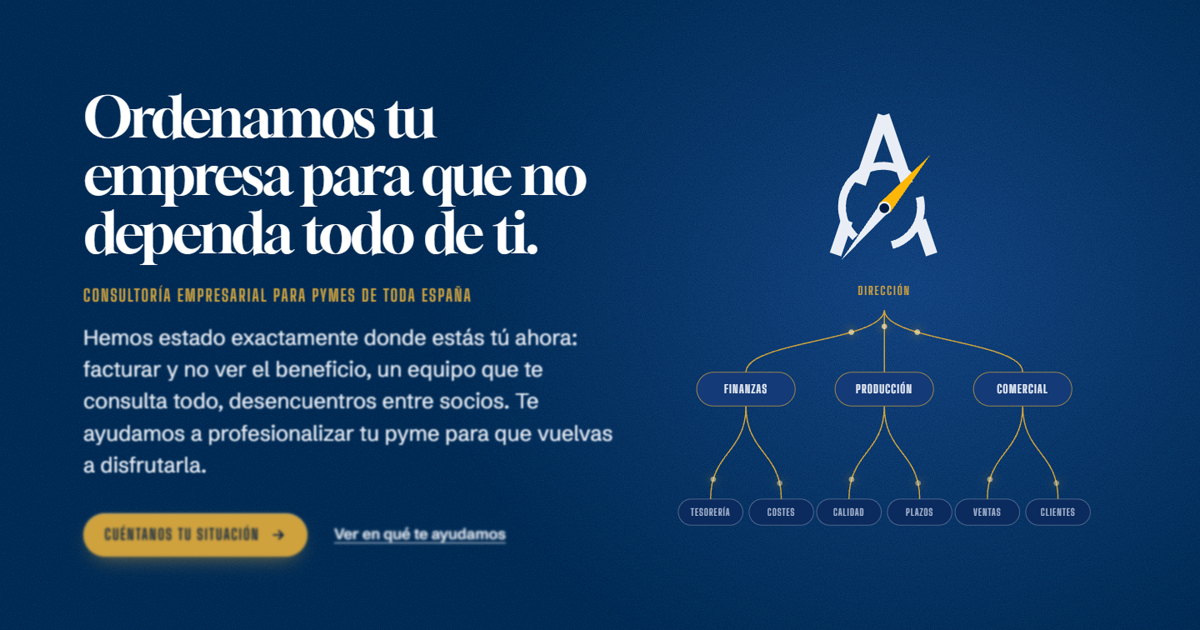
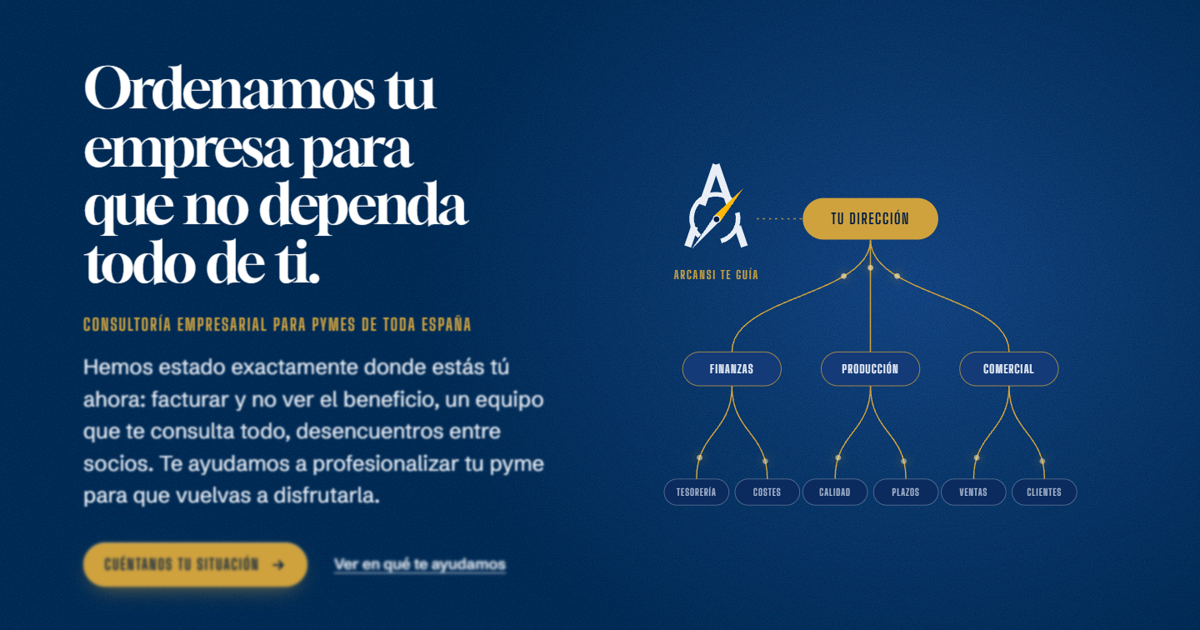
Organigrama: la empresa mantiene la direccion; Arcansi aparece al lado como guia

diff --git a/src/scripts/org.ts b/src/scripts/org.ts
@@ -17,7 +17,7 @@ const heads = [
 ];
 
 function buildNodes(): N[] {
-  const out: N[] = [{ id: "hub", label: "Tú", parent: null, start: [320, 300], end: [320, 95], kind: "hub" }];
+  const out: N[] = [{ id: "hub", label: "Tú", parent: null, start: [320, 300], end: [320, 150], kind: "hub" }];
   const all: Omit<N, "start">[] = [];
   heads.forEach((h) => {
     all.push({ id: h.id, label: h.label, problem: h.problem, parent: "hub", end: [h.x, 345], kind: "head" });
@@ -59,7 +59,7 @@ export function initOrg(svg: SVGSVGElement, section: HTMLElement, opts: { reduce
 
   const els = nodes.map((n) => {
     const g = document.createElementNS(NS, "g"); g.setAttribute("class", `org-node org-node--${n.kind}`);
-    const w = n.kind === "hub" ? 150 : n.kind === "head" ? 128 : 84, h = n.kind === "hub" ? 54 : n.kind === "head" ? 44 : 34;
+    const w = n.kind === "hub" ? 176 : n.kind === "head" ? 128 : 84, h = n.kind === "hub" ? 54 : n.kind === "head" ? 44 : 34;
     const r = document.createElementNS(NS, "rect");
     r.setAttribute("x", String(-w / 2)); r.setAttribute("y", String(-h / 2)); r.setAttribute("width", String(w)); r.setAttribute("height", String(h)); r.setAttribute("rx", String(h / 2));
     const t = document.createElementNS(NS, "text"); t.setAttribute("text-anchor", "middle"); t.setAttribute("dy", "0.35em"); t.textContent = n.problem ?? n.label;
@@ -67,13 +67,14 @@ export function initOrg(svg: SVGSVGElement, section: HTMLElement, opts: { reduce
     if (n.kind === "hub") {
       // la A de Arcansi: aparece al ordenar, con su aguja de brújula
       const a = document.createElementNS(NS, "g"); a.setAttribute("class", "org-a");
-      a.innerHTML = `<g transform="scale(.34) translate(-283 -340)">
+      a.innerHTML = `<g transform="scale(.2) translate(-283 -380)">
         <g stroke="#E9EEF6" stroke-width="46"><line x1="280" y1="28" x2="190" y2="290"/><line x1="280" y1="28" x2="370" y2="290"/><line x1="140" y1="430" x2="96" y2="560"/><line x1="420" y1="430" x2="464" y2="560"/></g>
         <path d="M 172 494 A 150 150 0 1 1 384 262" fill="none" stroke="#E9EEF6" stroke-width="30"/>
         <path d="M 418 340 A 150 150 0 0 1 312 524" fill="none" stroke="#E9EEF6" stroke-width="30"/>
         <g class="org-needle"><polygon points="118,582 266,368 300,398" fill="#E9EEF6"/><polygon points="262,366 458,180 304,402" fill="#FEB707"/></g>
         <circle cx="283" cy="383" r="22" fill="#001C43" stroke="#E9EEF6" stroke-width="7"/></g>`;
-      const cap = document.createElementNS(NS, "text"); cap.setAttribute("class", "org-cap"); cap.setAttribute("text-anchor", "middle"); cap.setAttribute("y", "128"); cap.setAttribute("fill", "#CFA23E"); cap.textContent = "Dirección";
+      const cap = document.createElementNS(NS, "text"); cap.setAttribute("class", "org-cap"); cap.setAttribute("text-anchor", "middle"); cap.setAttribute("y", "78"); cap.setAttribute("fill", "#CFA23E"); cap.textContent = "Arcansi te guía";
+      const link = document.createElementNS(NS, "line"); link.setAttribute("x1", "52"); link.setAttribute("y1", "0"); link.setAttribute("x2", "112"); link.setAttribute("y2", "0"); link.setAttribute("class", "org-advisor"); a.append(link);
       a.append(cap); g.append(a);
     }
     let badge: SVGTextElement | null = null, badgeG: SVGGElement | null = null;
@@ -110,7 +111,7 @@ export function initOrg(svg: SVGSVGElement, section: HTMLElement, opts: { reduce
       const ay = n.kind === "leaf" ? lerp(hub[1], par[1], e) : par[1];
       let [x, y] = pos[n.id];
       // de borde a borde: sale por debajo del padre y entra por arriba del hijo
-      const hp = n.kind === "leaf" ? 22 : 27 + 120 * e, hc = (n.kind === "leaf" ? 34 : 44) / 2;
+      const hp = n.kind === "leaf" ? 22 : 27, hc = (n.kind === "leaf" ? 34 : 44) / 2;
       const ay2 = ay + hp * e, y2 = y - hc * e;
       const my = lerp((ay2 + y2) / 2, ay2 + (y2 - ay2) * 0.5, e);
       // en orden: codos rectos de organigrama; en caos: línea directa
@@ -130,10 +131,10 @@ export function initOrg(svg: SVGSVGElement, section: HTMLElement, opts: { reduce
     // "Tú" se convierte en la A de Arcansi; su aguja busca rumbo y se fija
     const aIn = Math.min(1, Math.max(0, (e - 0.45) / 0.4));
     const pill = hubEl.g.querySelectorAll<SVGElement>(":scope > rect, :scope > text");
-    pill.forEach((el) => (el.style.opacity = String(1 - aIn)));
     const aG = hubEl.g.querySelector<SVGGElement>(".org-a")!;
     aG.style.opacity = String(aIn);
-    aG.setAttribute("transform", `scale(${(0.7 + aIn * 0.3).toFixed(3)})`);
+    aG.setAttribute("transform", `translate(${(-200 * aIn).toFixed(1)} 0) scale(${(0.7 + aIn * 0.3).toFixed(3)})`);
+    hubEl.t.textContent = e > 0.5 ? "Tu dirección" : "Tú";
     const needle = (Math.sin(time * 1.3) * 70 + Math.sin(time * 0.5 + 1.2) * 50) * (1 - aIn) + Math.sin(time * 9) * 4 * (1 - aIn);
     aG.querySelector(".org-needle")!.setAttribute("transform", `rotate(${needle.toFixed(2)} 283 383)`);
     const count = Math.round(27 * chaos);
